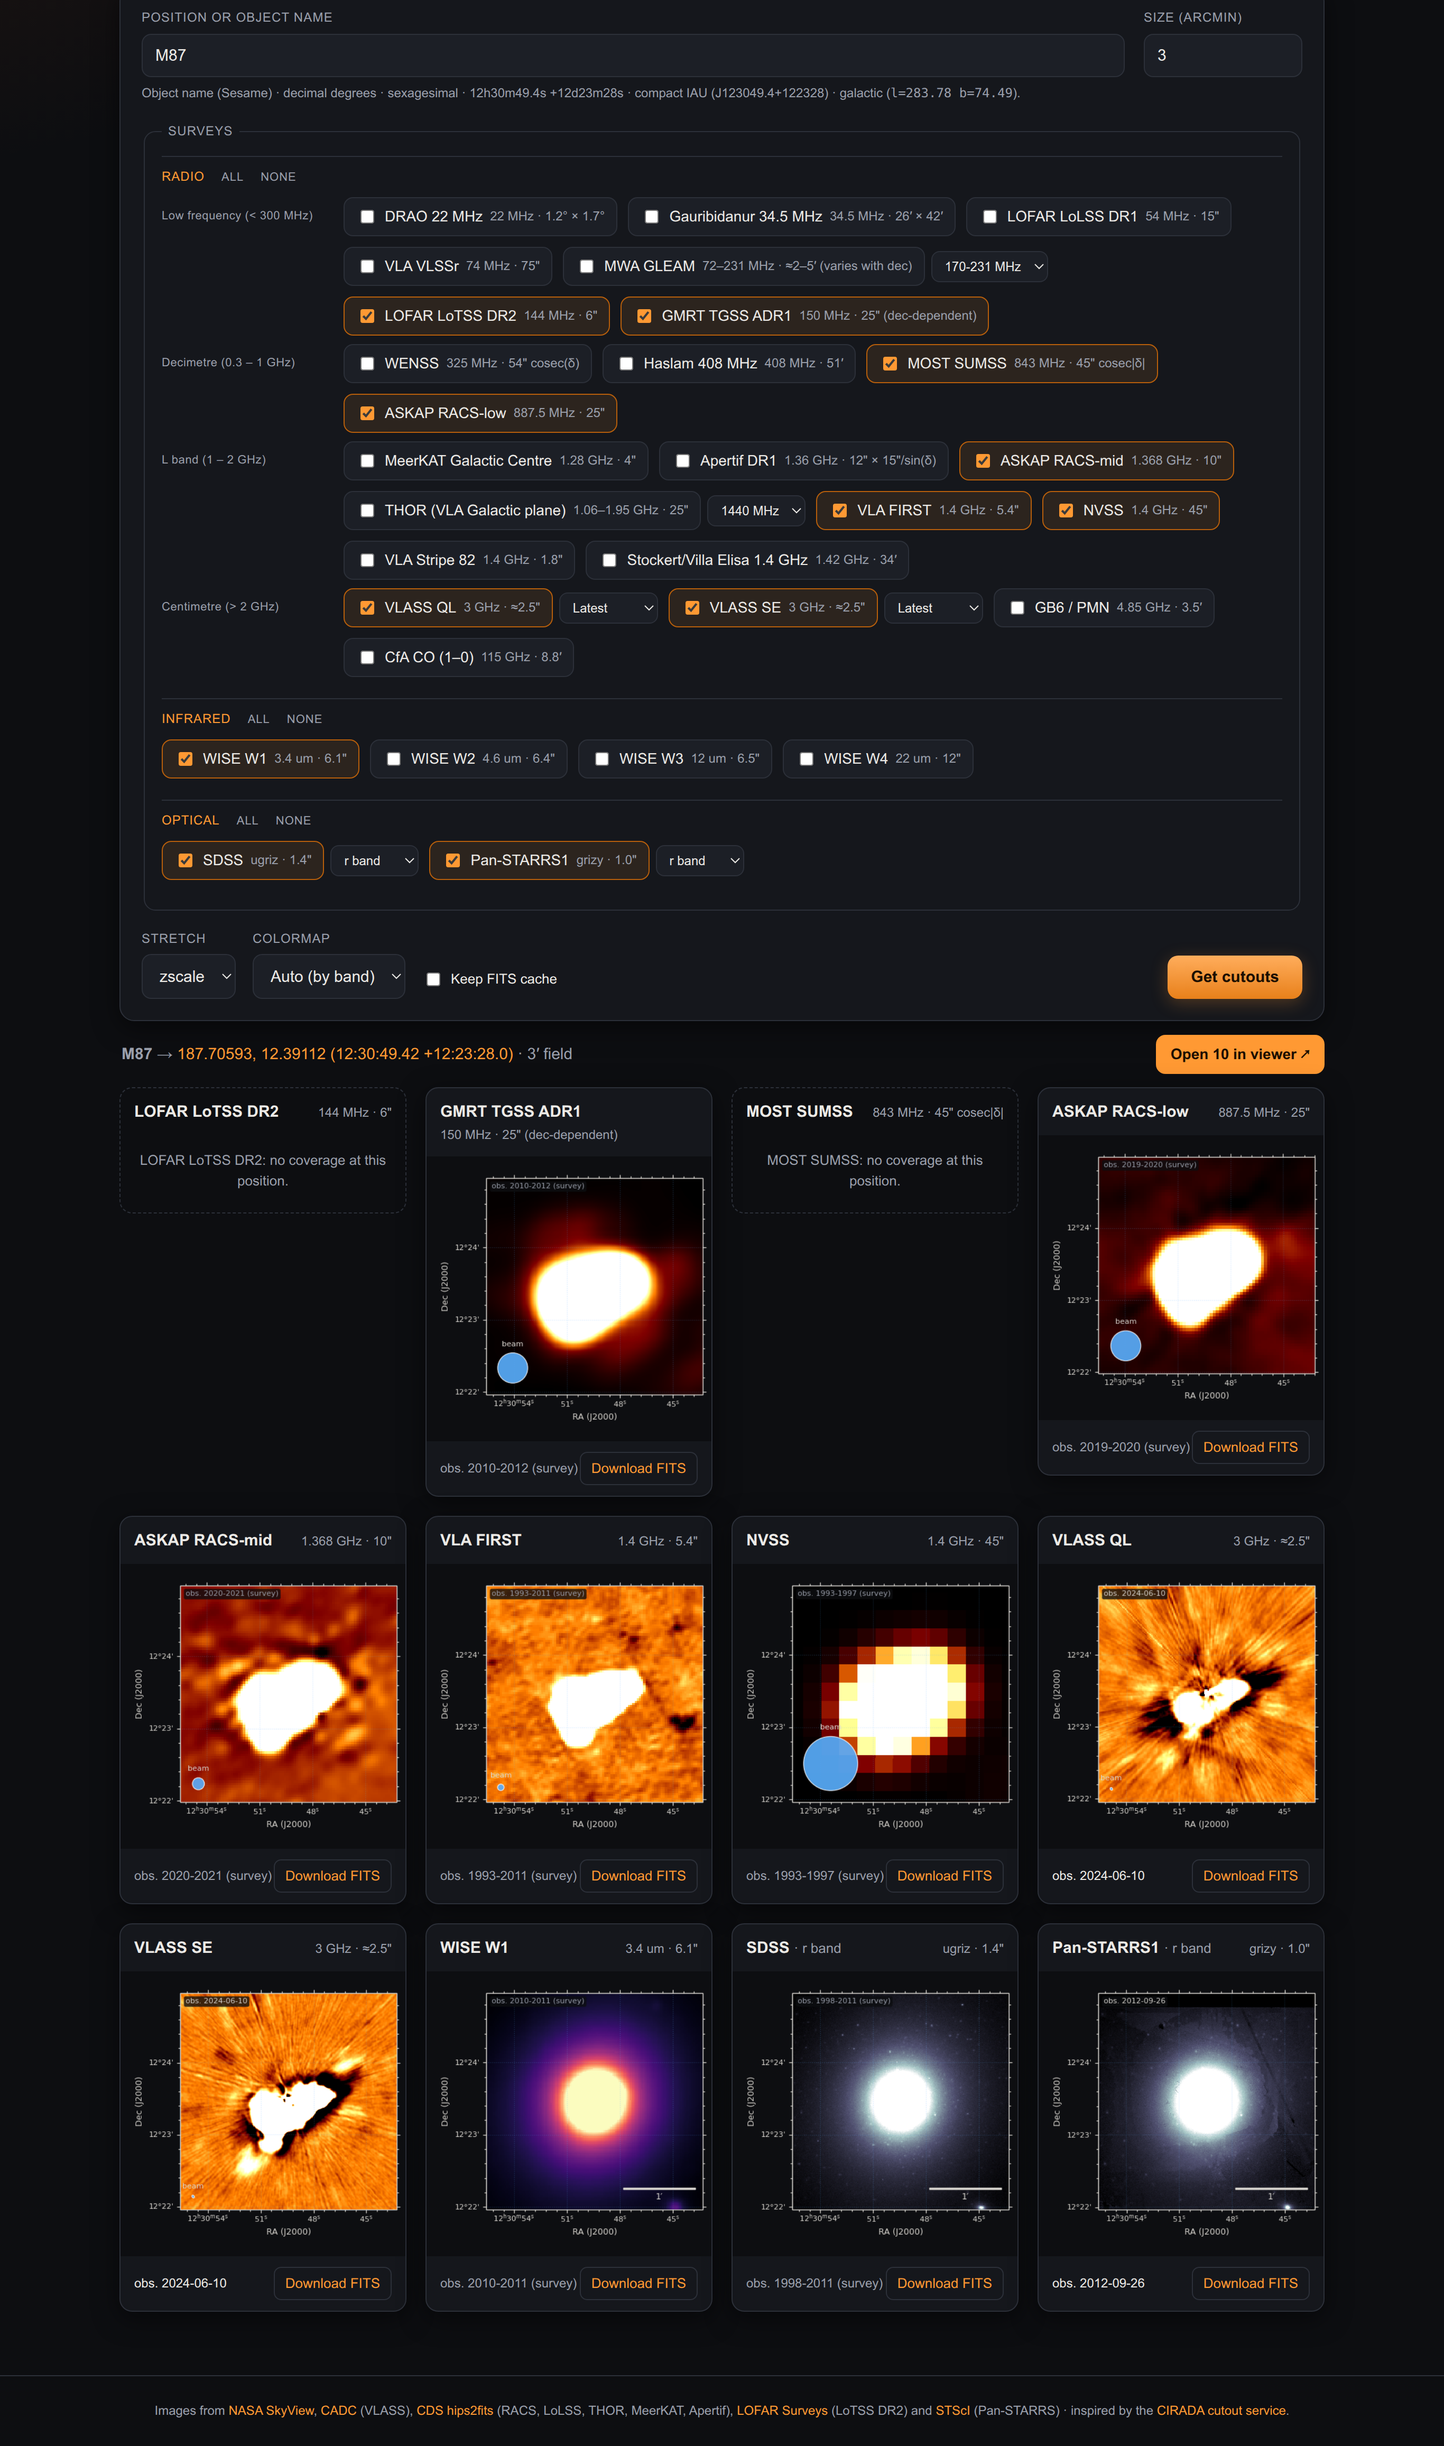
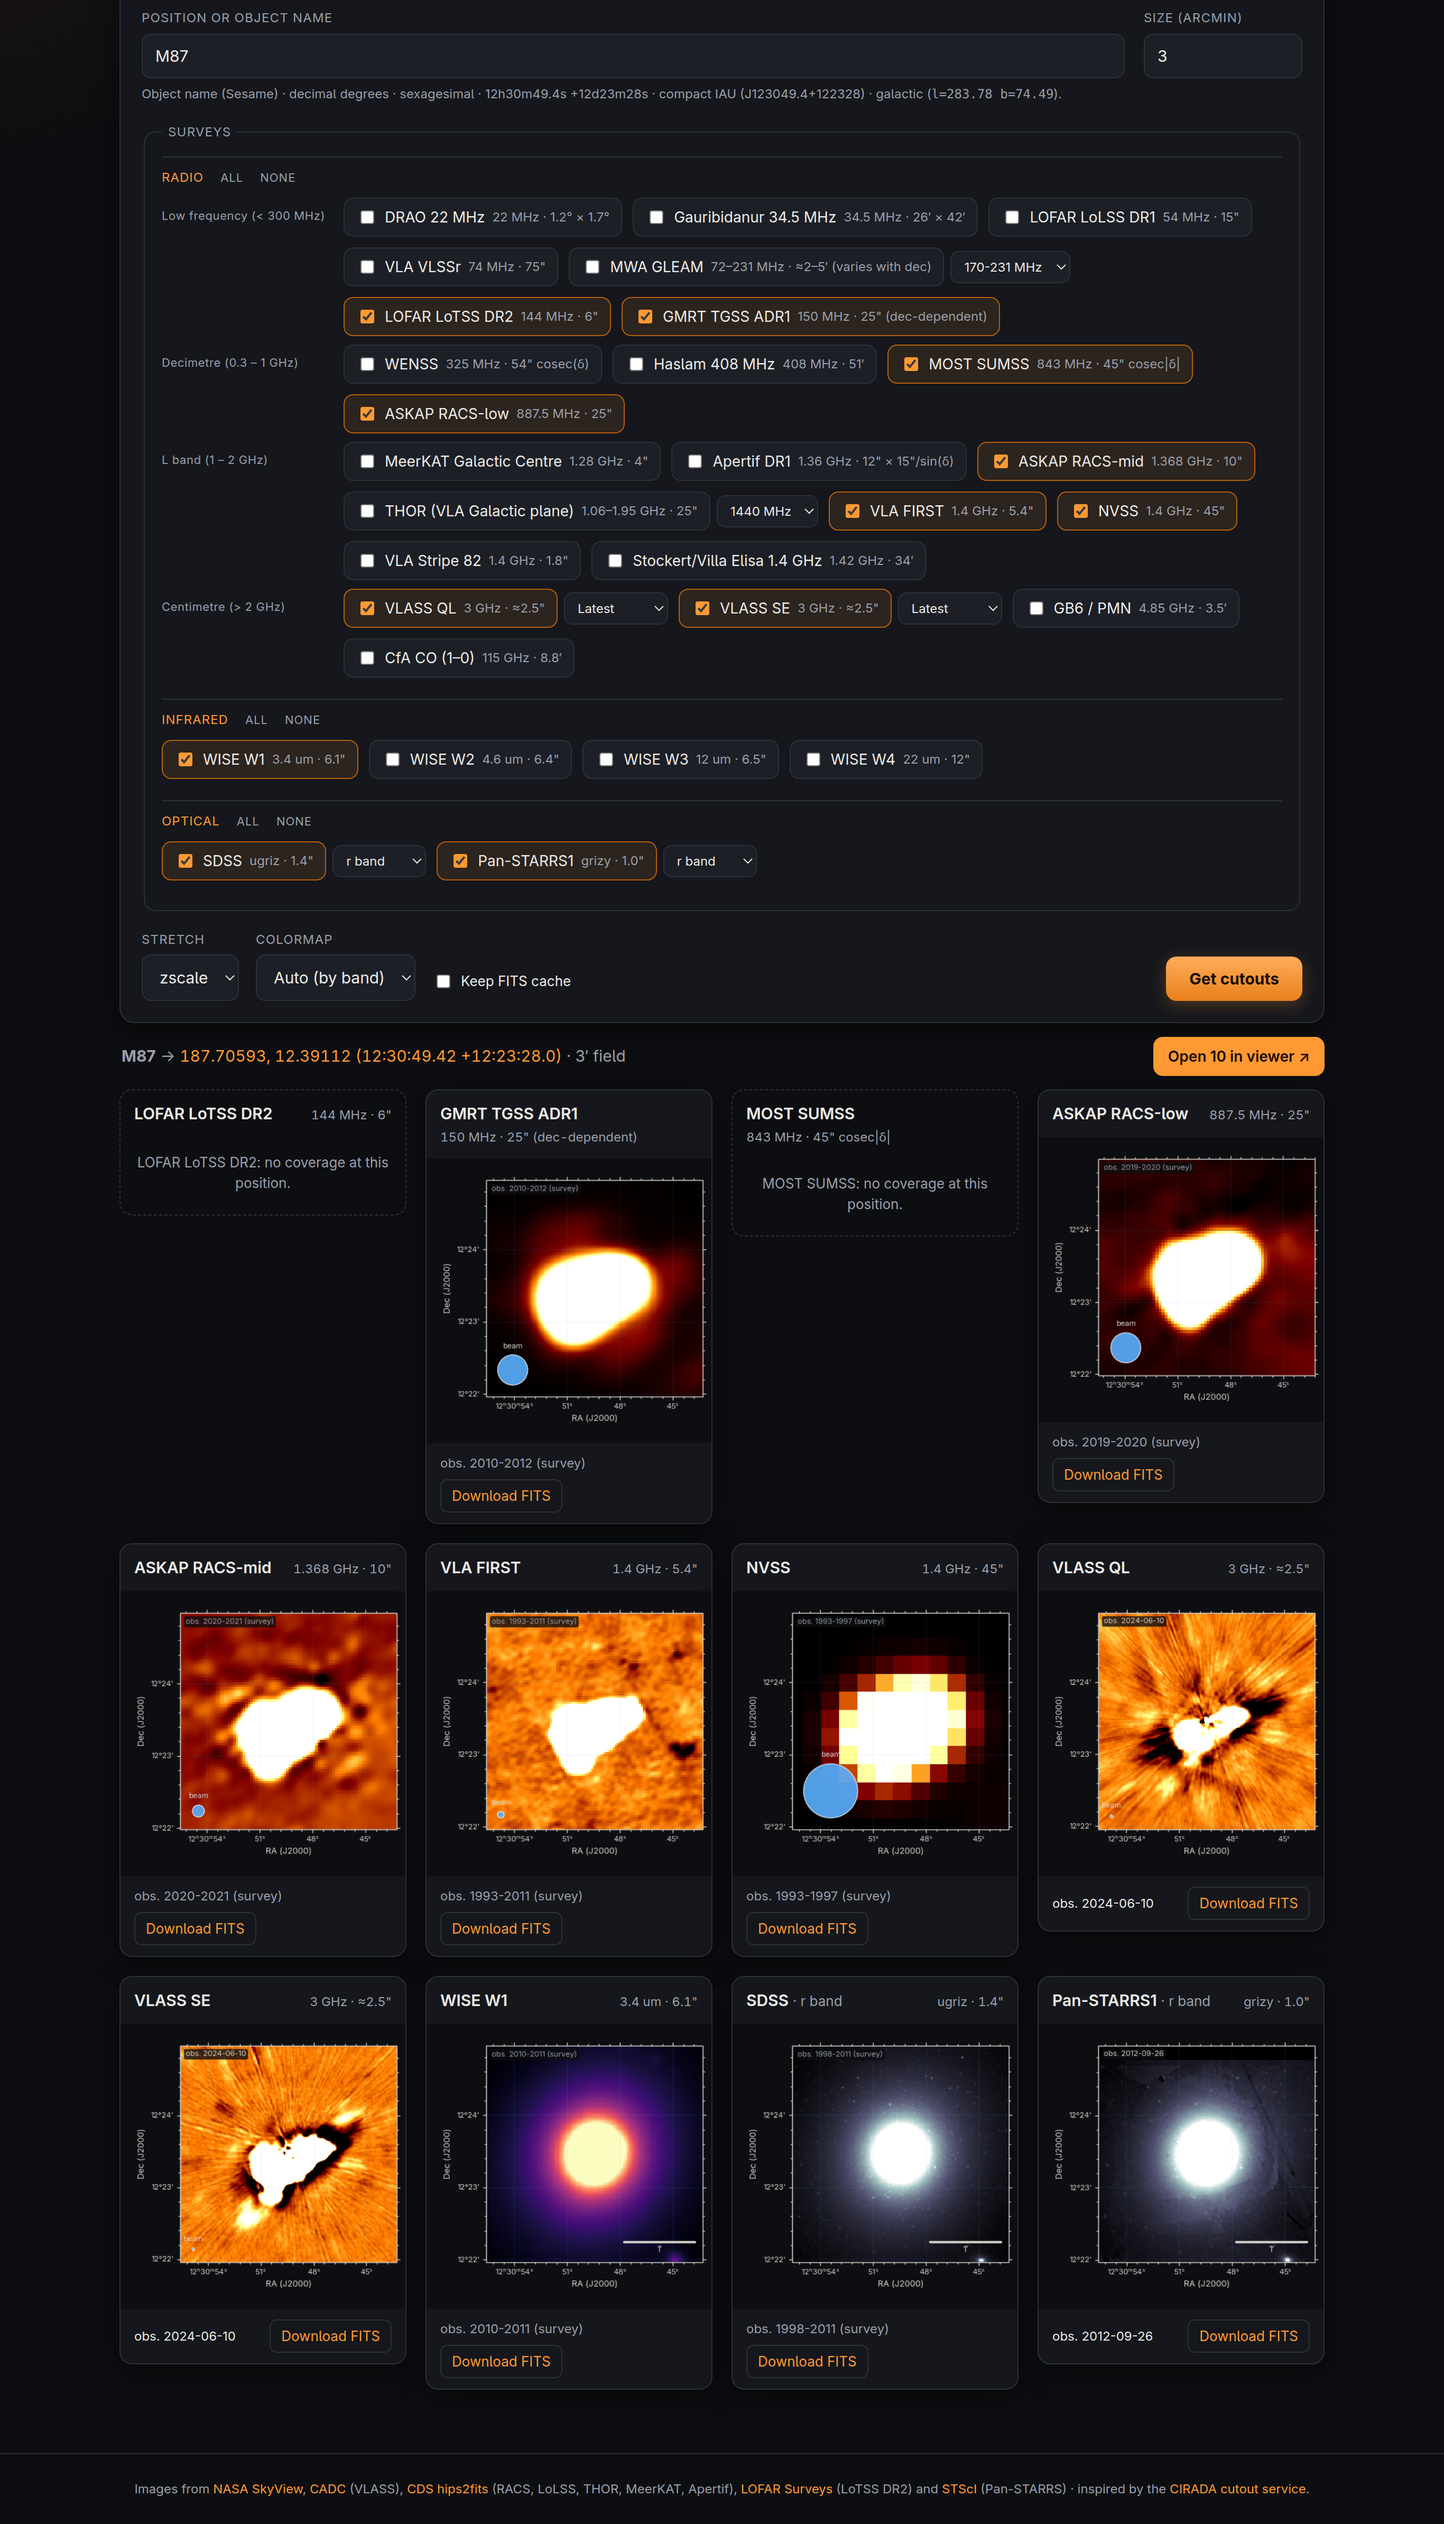
Regenerate README screenshot in Adwaita Sans; keep FITS button on one line
- Re-capture screenshots/app_m87.png with the bundled font in the page and
  the preview axis labels.
- Adwaita Sans is wider than the old fallback, which split "Download FITS"
  over two lines; the card footer now wraps the button below the date
  instead.
- Point the README's interface section at the screenshot.

diff --git a/static/style.css b/static/style.css
@@ -230,10 +230,14 @@ button#submit:disabled { opacity: .55; cursor: default; }
 }
 @keyframes spin { to { transform: rotate(360deg); } }
 
-.card .foot { display: flex; justify-content: space-between; align-items: center; padding: 10px 13px; }
+.card .foot {
+  display: flex; flex-wrap: wrap; justify-content: space-between; align-items: center;
+  gap: 6px 10px; padding: 10px 13px;
+}
 .card .foot a {
   color: var(--accent); text-decoration: none; font-size: 13px;
   border: 1px solid var(--border); border-radius: 7px; padding: 5px 10px;
+  white-space: nowrap;   /* the button never splits; it wraps below the date instead */
 }
 .card .foot a:hover { border-color: var(--accent); background: var(--panel-2); }
 .card.unavailable { background: transparent; border-style: dashed; box-shadow: none; }

diff --git a/README.md b/README.md
@@ -192,6 +192,9 @@ the bundled `.ttf` with matplotlib, so the axis labels on the images match the
 page. The font is distributed under the SIL Open Font License 1.1; its license
 travels with it in `static/fonts/OFL.txt`.
 
+The screenshot under [Example: M87](#example-m87) shows the current theme and
+typeface, including Adwaita Sans in the preview axis labels.
+
 - **Selected surveys are highlighted.** A ticked survey chip gets a saffron
   border and tint, so the current selection reads at a glance rather than only
   from the checkbox.
